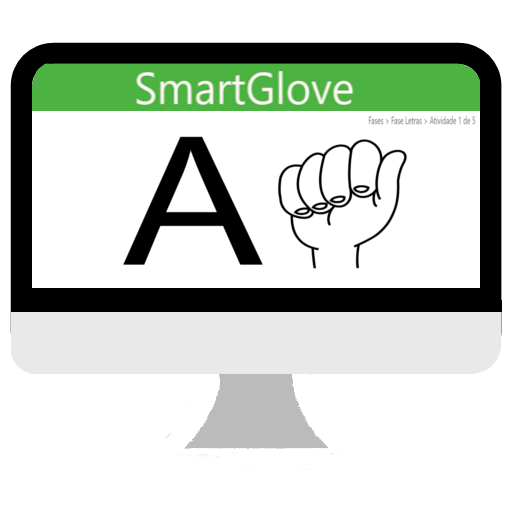
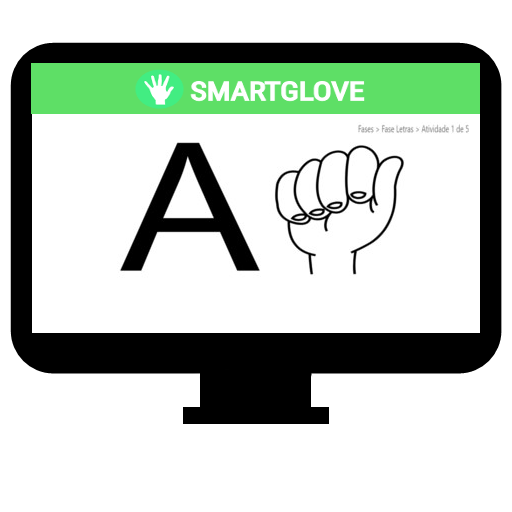
TASK00045 Adição de imagens

diff --git a/Mudanca 2/index.html b/Mudanca 2/index.html
@@ -51,7 +51,7 @@
         <!-- <a class="navbar-brand logo-text page-scroll" href="index.html">Leno</a> -->
 
         <!-- Image Logo -->
-        <a class="navbar-brand logo-image" href="index.html"><img src="images/logo.jpg" alt="alternative" width="5000px"></a>
+        <a class="navbar-brand logo-image" href="index.html"><img src="images/LogoSite.png" alt="alternative" width="5000px"></a>
 
         <!-- Mobile Menu Toggle Button -->
         <button class="navbar-toggler" type="button" data-toggle="collapse" data-target="#navbarsExampleDefault" aria-controls="navbarsExampleDefault" aria-expanded="false" aria-label="Toggle navigation">
@@ -205,7 +205,7 @@
 
                                 <!-- Image Pane -->
                                 <div class="col-lg-4">
-                                    <img class="img-fluid" src="images/pcSemFundo3.png" alt="alternative">
+                                    <img class="img-fluid" src="images/pcSemFundoEditado.png" alt="alternative">
                                 </div>
                                 <!-- end of image pane -->
 
@@ -535,8 +535,8 @@
 
                                 <!-- Slide de passos a serem seguidos-->
                                 <div class="swiper-slide">
-                                    <a href="images/Detalhes/teste1.jpg" class="popup-link"  data-effect="fadeIn"><!--screenshot-1.png-->
-                                        <img class="img-fluid" src="images/Detalhes/teste1.jpg" alt="alternative">
+                                    <a href="images/Detalhes/teste1.png" class="popup-link"  data-effect="fadeIn"><!--screenshot-1.png-->
+                                        <img class="img-fluid" src="images/Detalhes/teste1.png" alt="alternative">
                                     </a>
                                 </div>
                                 <!-- end of slide -->
